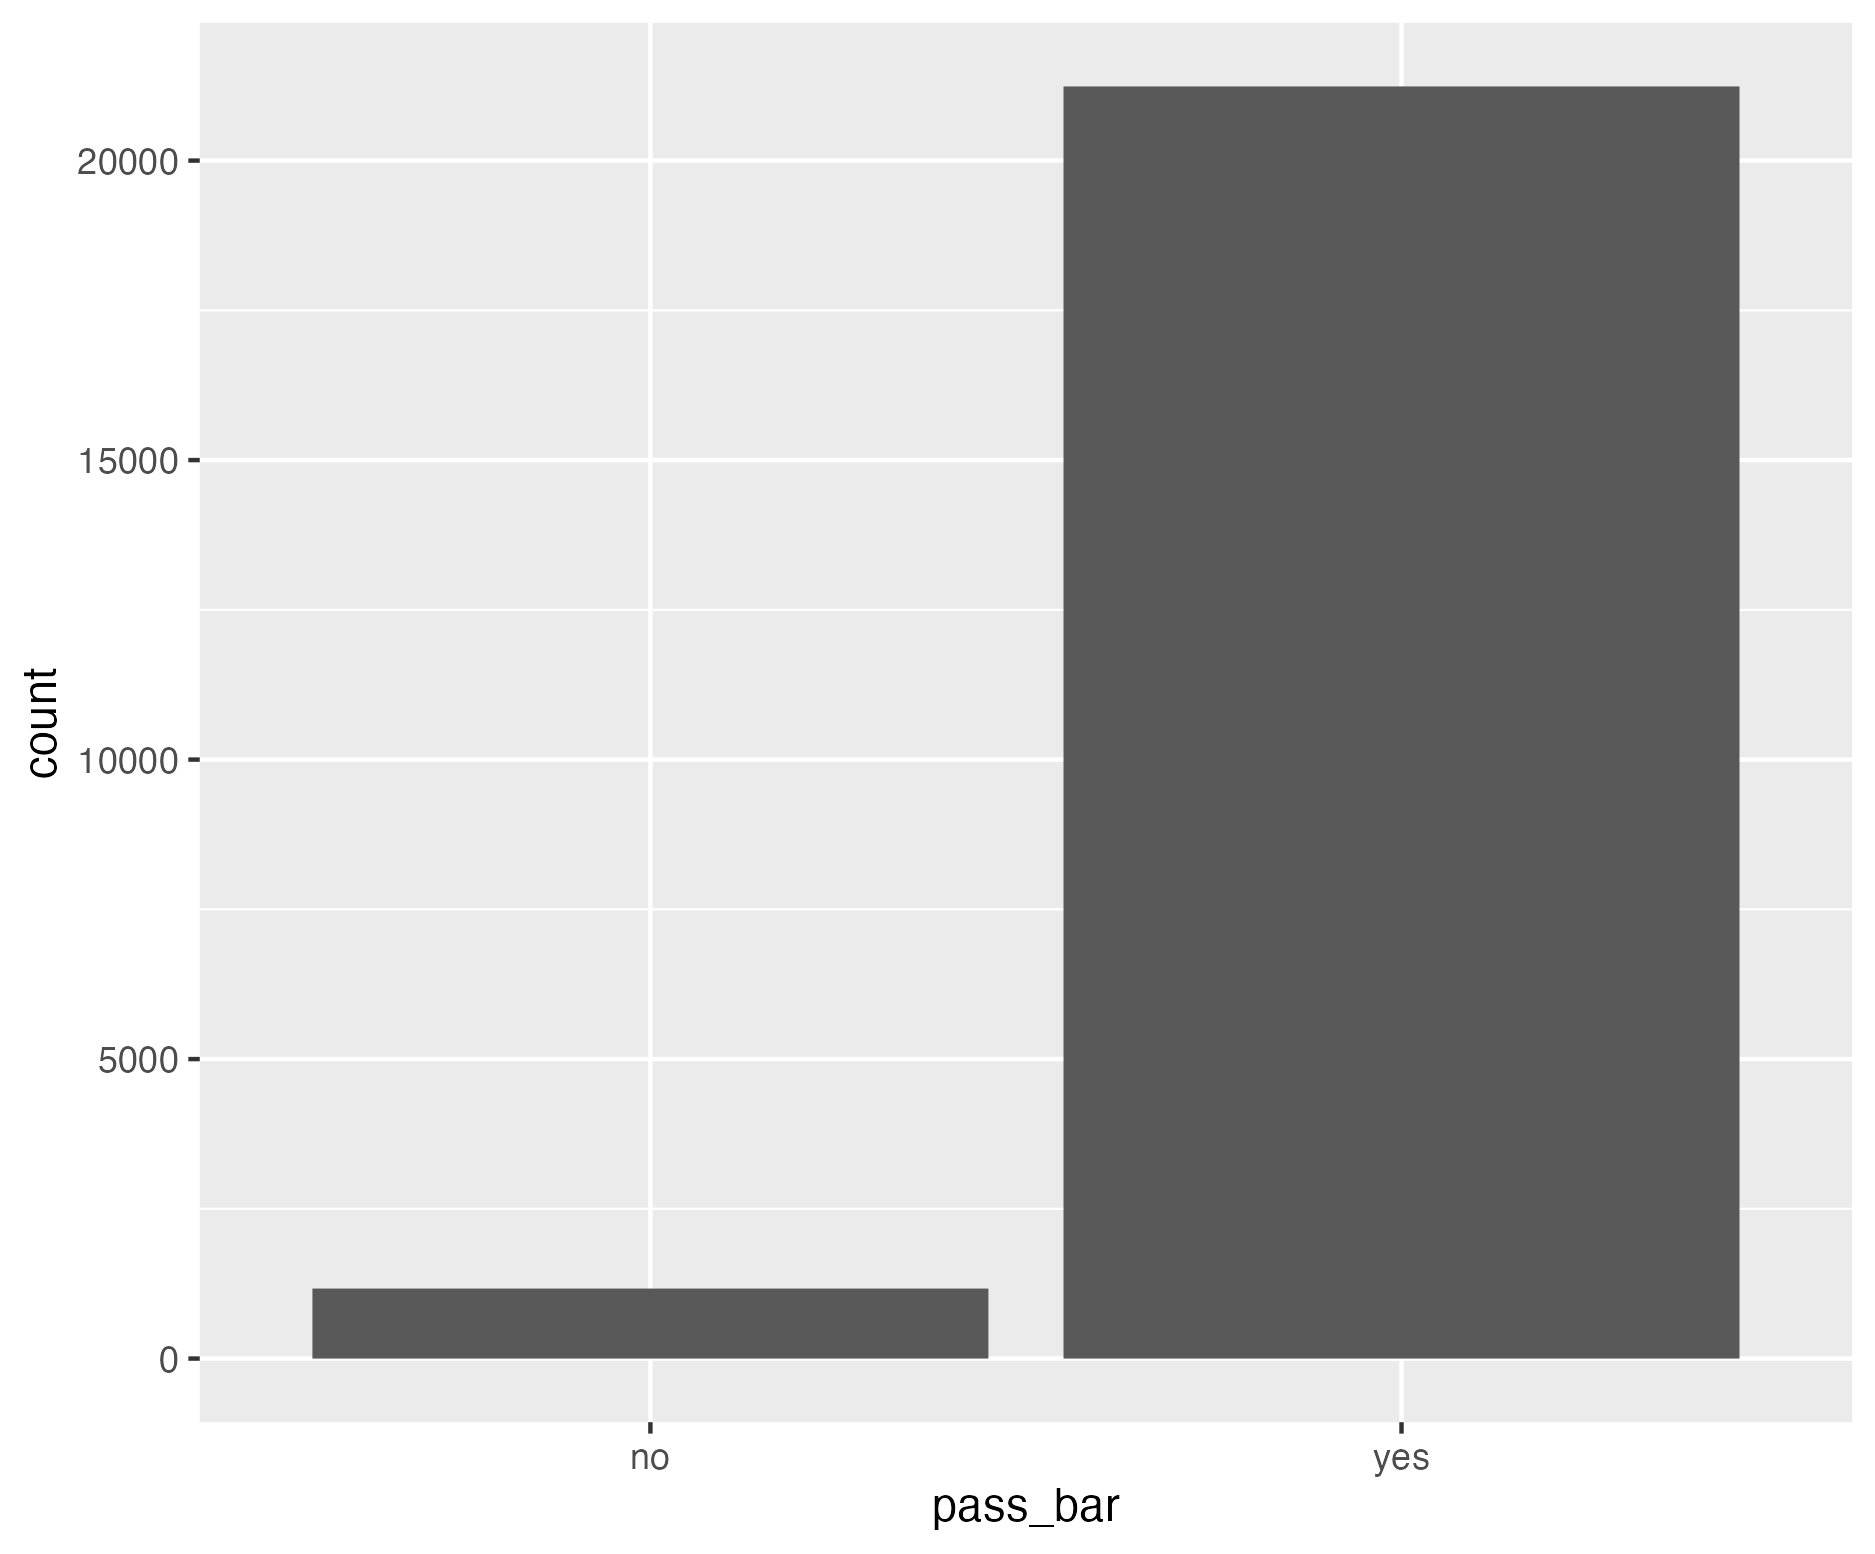
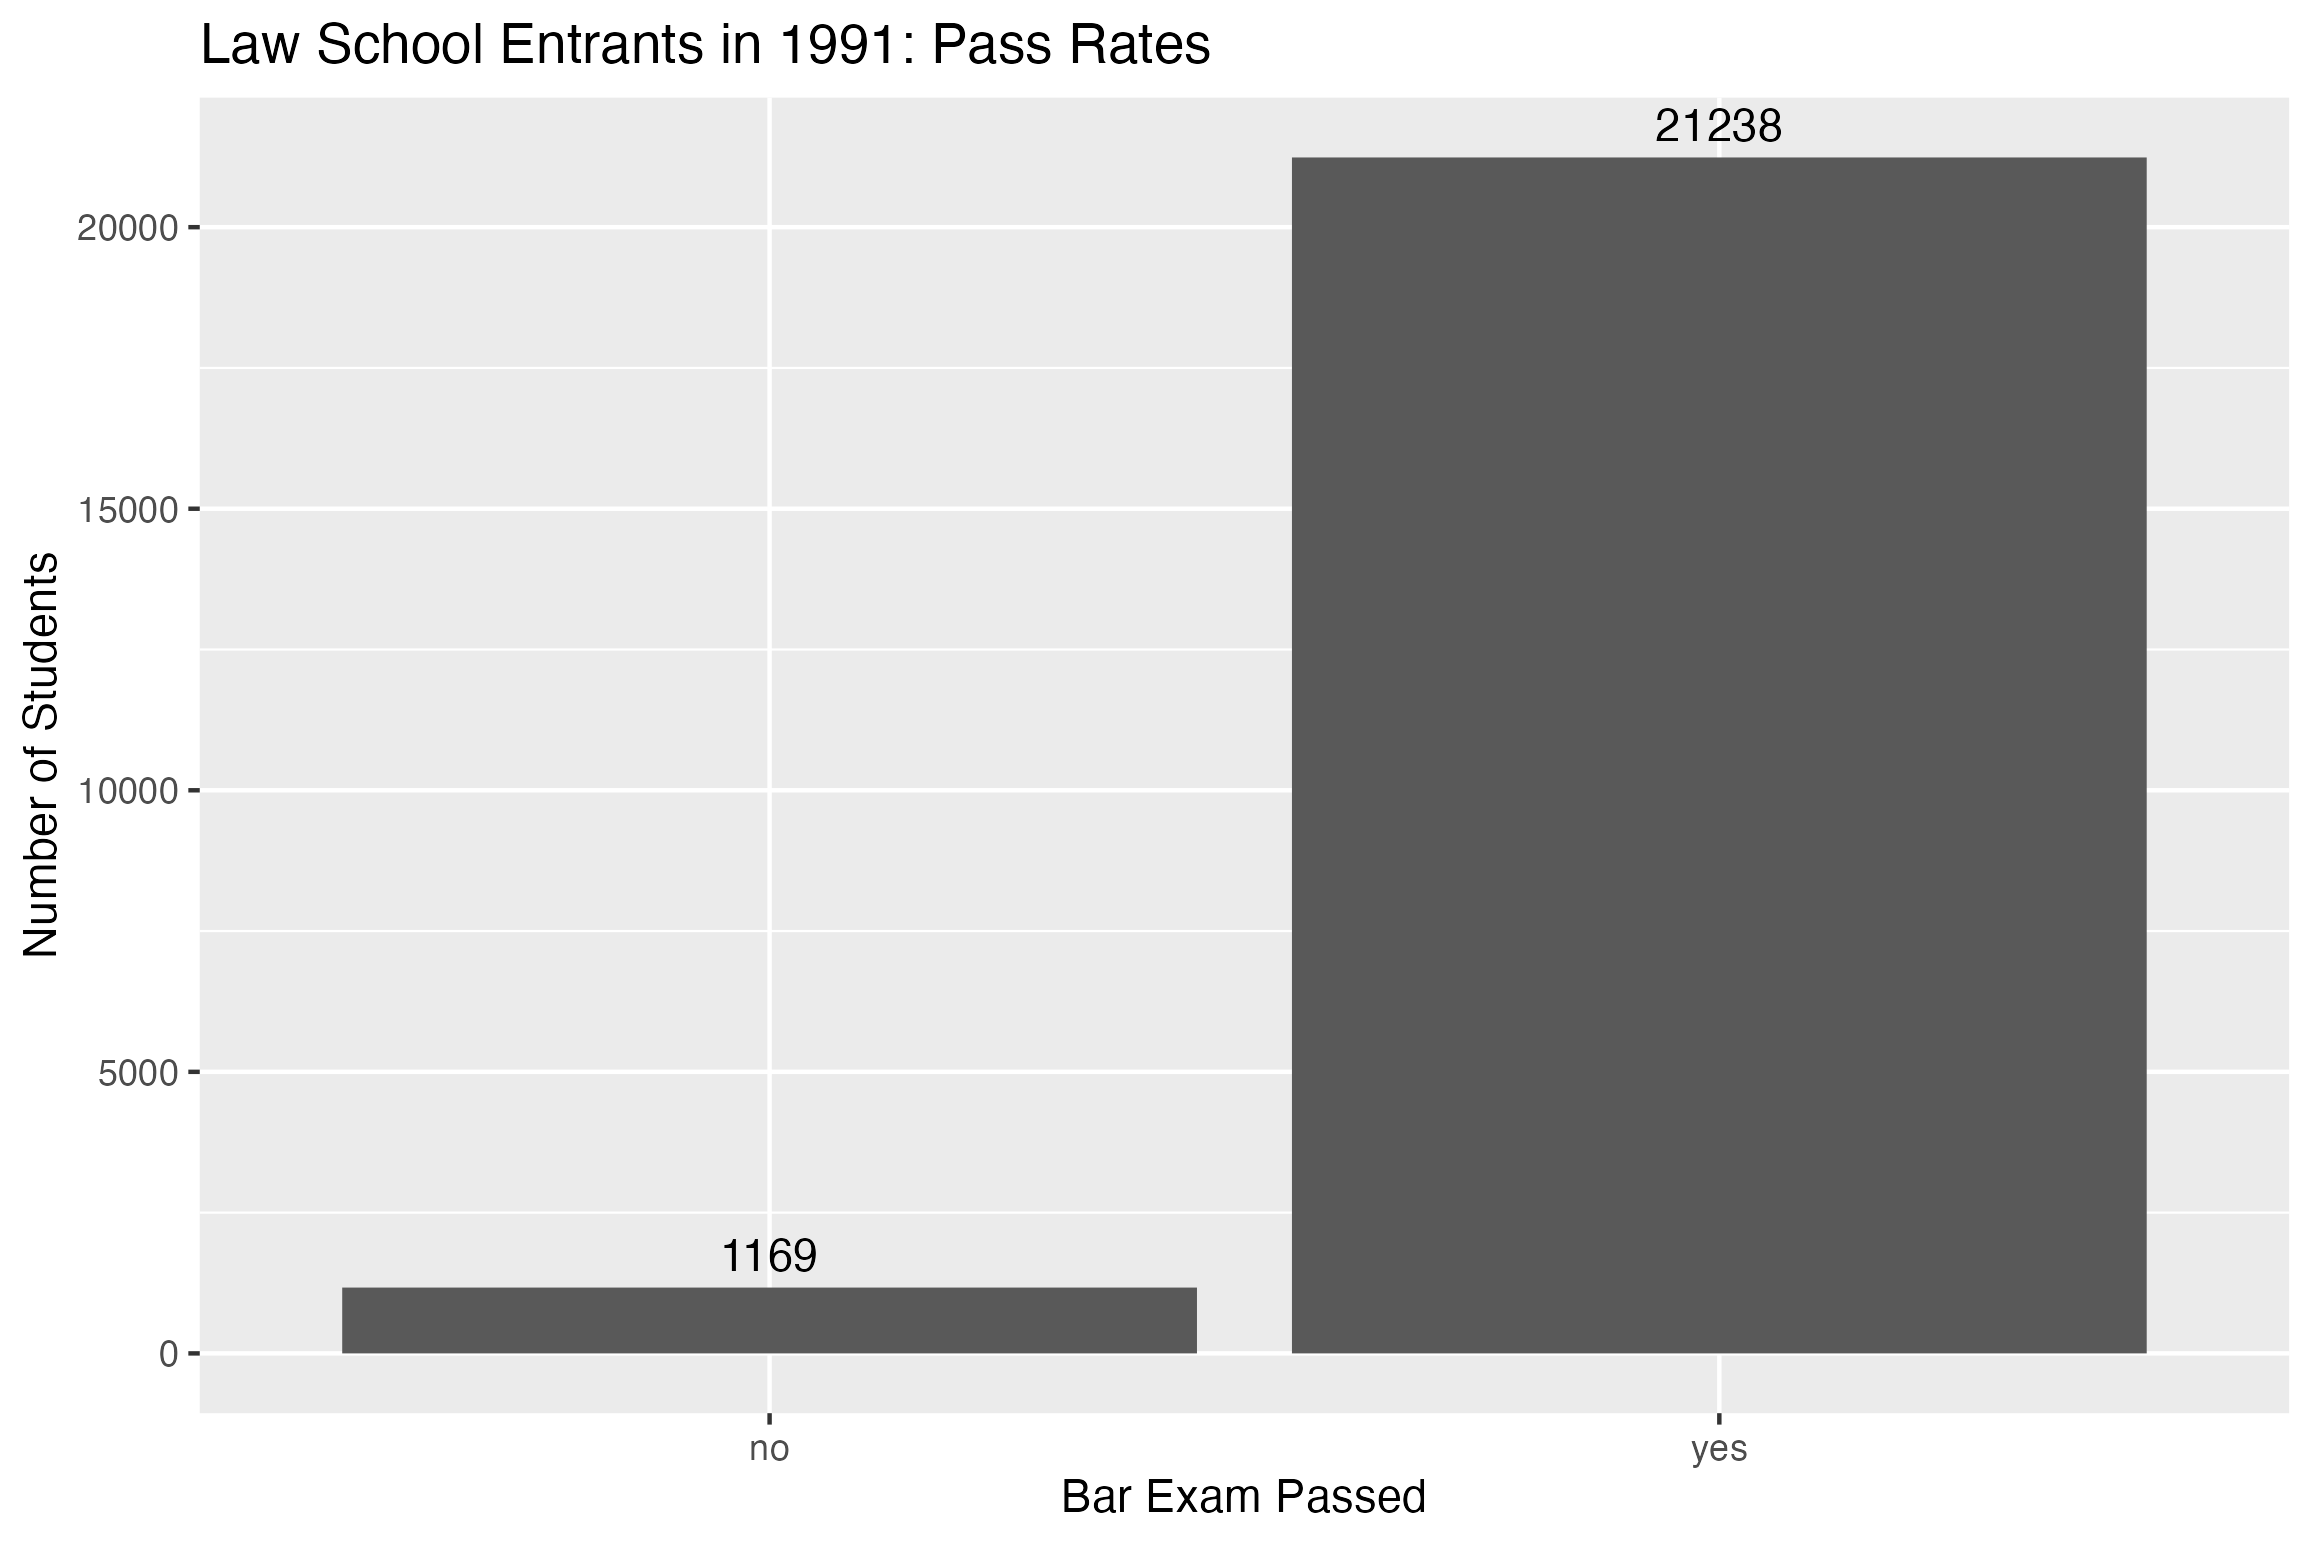
fixed plots, made more, did more research

diff --git a/Nanlawala_Sana_final_report.html b/Nanlawala_Sana_final_report.html
@@ -2993,6 +2993,7 @@ vertical-align: -.125em;
   <ul>
   <li><a href="#introduction" id="toc-introduction" class="nav-link active" data-scroll-target="#introduction">Introduction</a></li>
   <li><a href="#data-overview" id="toc-data-overview" class="nav-link" data-scroll-target="#data-overview">Data Overview</a></li>
+  <li><a href="#data-overview-1" id="toc-data-overview-1" class="nav-link" data-scroll-target="#data-overview-1">data overview</a></li>
   </ul>
 </nav>
 </div>
@@ -3032,10 +3033,13 @@ Data Science 1 with R (STAT 301-1)</p><p></p>
 <p><a href="https://github.com/stat301-1-2023-fall/final-project-1-SanaNanlawala2026.git">Github Repository</a></p>
 <section id="introduction" class="level2">
 <h2 class="anchored" data-anchor-id="introduction">Introduction</h2>
-<p>This report will conduct on exploratory data analysis on a study called the LSAC National Longitudinal Bar Passage Study completed in 1998 by Linda Wightman.</p>
+<p>This report will conduct on exploratory data analysis on a study called the LSAC National Longitudinal Bar Passage Study completed in 1998 by Linda Wightman. This study focuses on 22,407 students who entered law school in fall of 1991.</p>
 </section>
 <section id="data-overview" class="level2">
 <h2 class="anchored" data-anchor-id="data-overview">Data Overview</h2>
+</section>
+<section id="data-overview-1" class="level1">
+<h1>data overview</h1>
 </section>
 
 </main>
